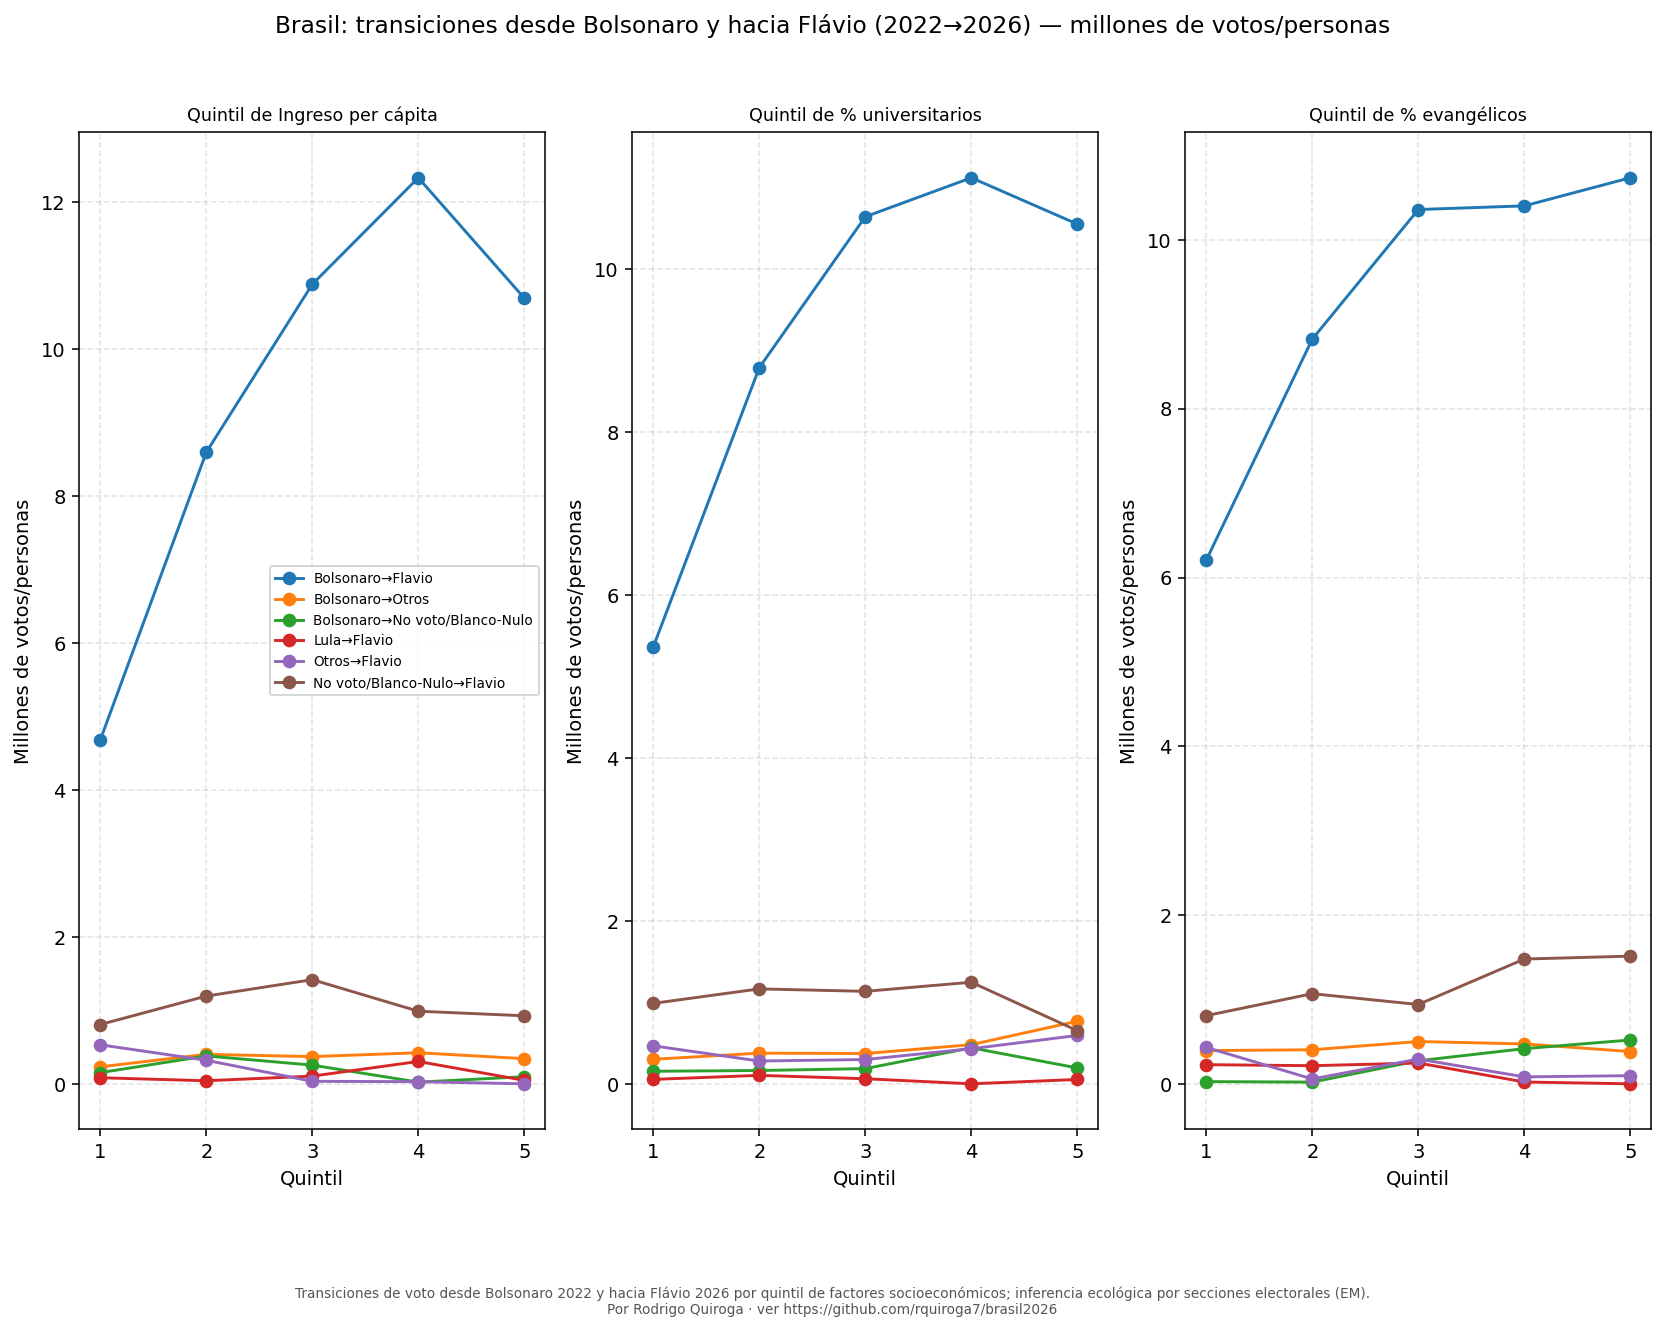
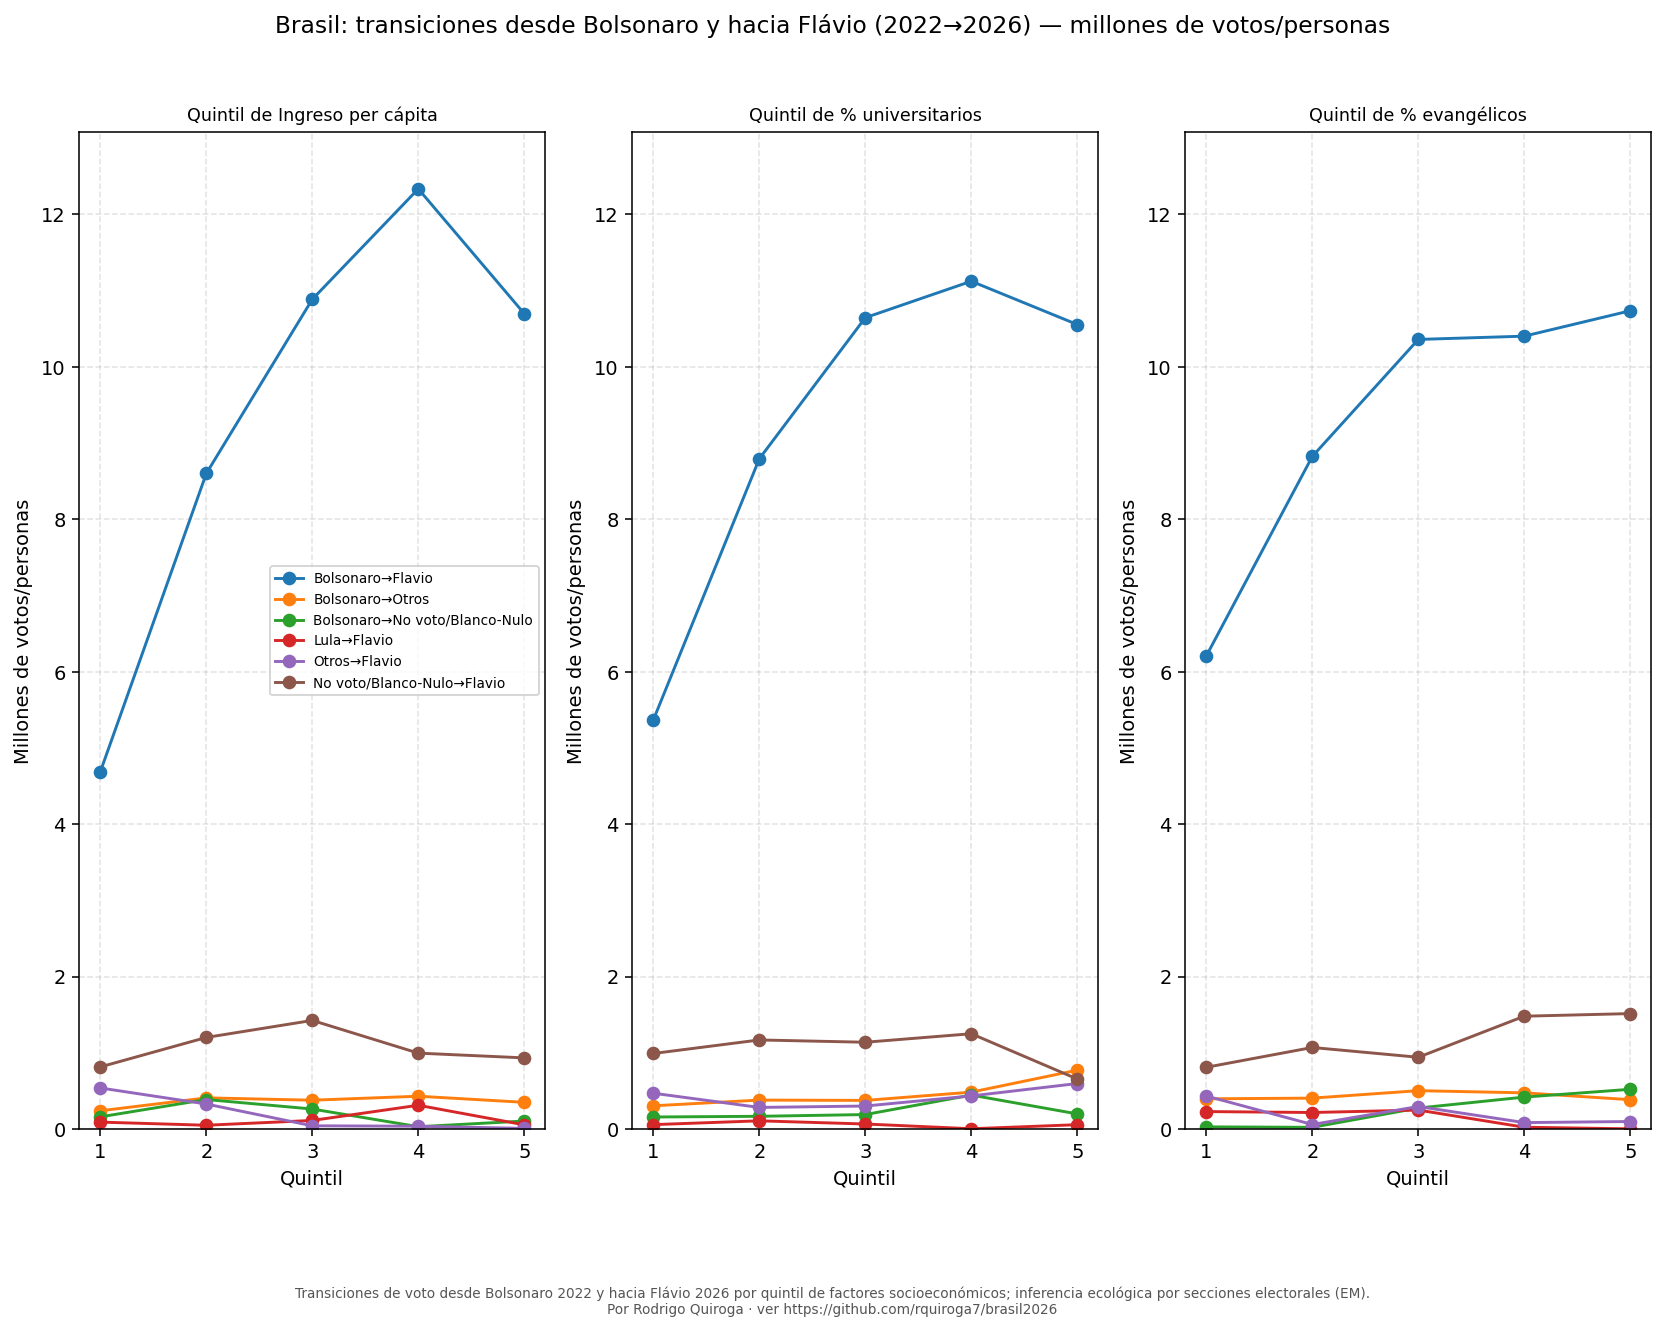
Socio: mismo eje y en las 3 facetas; modo --solo-graficos (regenera sin re-correr la inferencia)

diff --git a/inferencia_ecologica_socio.py b/inferencia_ecologica_socio.py
@@ -225,6 +225,7 @@ def graficar_panel(muni, corr, reg_sin, reg_con):
 def graficar_grupo(quints, claves, archivo, titulo, meto, absoluto=False):
     q = quints
     fig, axes = plt.subplots(1, 3, figsize=(12, 9))
+    ymin, ymax = np.inf, -np.inf
     for ax, var in zip(axes, ["ingreso", "univ", "religion"]):
         sub = q[q["factor"] == var]
         for oj, dk in claves:
@@ -233,10 +234,15 @@ def graficar_grupo(quints, claves, archivo, titulo, meto, absoluto=False):
                 continue
             y = s["votos"] / 1e6 if absoluto else s["p"] * 100
             ax.plot(s["quintil"] + 1, y, "o-", label=f"{oj}→{dk}")
+            ymin = min(ymin, float(y.min()))
+            ymax = max(ymax, float(y.max()))
         ax.set_title(f"Quintil de {NOMBRES[var]}", fontsize=9)
         ax.set_xlabel("Quintil")
         ax.set_ylabel("Millones de votos/personas" if absoluto else "% del bloque de origen")
         ax.grid(alpha=0.35, ls="--")
+    margen = 0.06 * (ymax - ymin) if ymax > ymin else 1.0
+    for ax in axes:                       # mismo eje y en las tres facetas
+        ax.set_ylim(max(0.0, ymin - margen), ymax + margen)
     suf = " — millones de votos/personas" if absoluto else ""
     fig.suptitle(f"Brasil: {titulo} (2022→2026){suf}", fontsize=12)
     axes[0].legend(fontsize=7)
@@ -320,7 +326,44 @@ def reporte(muni, corr, reg_con, r2_con, n_con, quints, idioma):
     return "\n".join(lineas) + f"\n\n---\n\n*{ep.CREDITO}*\n"
 
 
+def graficar_todo(muni, corr, reg_con, r2_con, n_con, quints):
+    """Genera todos los gráficos e informes a partir de los datos intermedios."""
+    graficar_panel(muni, corr, None, reg_con)
+    METO_LULA = ("Transiciones de voto hacia/desde Lula (2022→2026) por quintil de factores "
+                 "socioeconómicos; inferencia ecológica por secciones electorales (EM).")
+    METO_BOLSO = ("Transiciones de voto desde Bolsonaro 2022 y hacia Flávio 2026 por quintil de "
+                  "factores socioeconómicos; inferencia ecológica por secciones electorales (EM).")
+    graficar_grupo(quints, CLAVES_LULA, "socio_ei_lula.png",
+                   "transiciones hacia/desde Lula", METO_LULA)
+    graficar_grupo(quints, CLAVES_LULA, "socio_ei_abs_lula.png",
+                   "transiciones hacia/desde Lula", METO_LULA, absoluto=True)
+    graficar_grupo(quints, CLAVES_BOLSO, "socio_ei_bolso_flavio.png",
+                   "transiciones desde Bolsonaro y hacia Flávio", METO_BOLSO)
+    graficar_grupo(quints, CLAVES_BOLSO, "socio_ei_abs_bolso_flavio.png",
+                   "transiciones desde Bolsonaro y hacia Flávio", METO_BOLSO, absoluto=True)
+    open(os.path.join(OUT, "informe_socio_es.md"), "w", encoding="utf-8").write(
+        reporte(muni, corr, reg_con, r2_con, n_con, quints, "es"))
+    open(os.path.join(OUT, "relatorio_socio_pt.md"), "w", encoding="utf-8").write(
+        reporte(muni, corr, reg_con, r2_con, n_con, quints, "pt"))
+
+
+def solo_graficos():
+    """Regenera gráficos e informes desde los datos intermedios guardados (sin EM)."""
+    muni = pd.read_csv(os.path.join(OUT, "socio_municipios.csv"))
+    quints = pd.read_csv(os.path.join(OUT, "socio_ei_quintiles.csv"))
+    reg = pd.read_csv(os.path.join(OUT, "socio_regresion.csv"))
+    r2_con = float(reg["r2"].iloc[0]) if "r2" in reg.columns else float("nan")
+    n_con = int(reg["n"].iloc[0]) if "n" in reg.columns else len(muni)
+    reg_con = reg[["factor", "coef", "se", "t"]].copy()
+    corr = correlaciones(muni, "swing_lula")
+    graficar_todo(muni, corr, reg_con, r2_con, n_con, quints)
+    print("[OK] Gráficos regenerados desde datos guardados")
+
+
 def main():
+    if "--solo-graficos" in sys.argv:
+        solo_graficos()
+        return
     print("[*] Datos socioeconómicos + votos por municipio...")
     muni = dataset_municipal()
     cobertura = muni["ingreso"].notna().mean() * 100
@@ -349,23 +392,7 @@ def main():
     quints = pd.concat(partes, ignore_index=True)
     quints.to_csv(os.path.join(OUT, "socio_ei_quintiles.csv"), index=False)
 
-    graficar_panel(muni, corr, reg_sin, reg_con)
-    METO_LULA = ("Transiciones de voto hacia/desde Lula (2022→2026) por quintil de factores "
-                 "socioeconómicos; inferencia ecológica por secciones electorales (EM).")
-    METO_BOLSO = ("Transiciones de voto desde Bolsonaro 2022 y hacia Flávio 2026 por quintil de "
-                  "factores socioeconómicos; inferencia ecológica por secciones electorales (EM).")
-    graficar_grupo(quints, CLAVES_LULA, "socio_ei_lula.png",
-                   "transiciones hacia/desde Lula", METO_LULA)
-    graficar_grupo(quints, CLAVES_LULA, "socio_ei_abs_lula.png",
-                   "transiciones hacia/desde Lula", METO_LULA, absoluto=True)
-    graficar_grupo(quints, CLAVES_BOLSO, "socio_ei_bolso_flavio.png",
-                   "transiciones desde Bolsonaro y hacia Flávio", METO_BOLSO)
-    graficar_grupo(quints, CLAVES_BOLSO, "socio_ei_abs_bolso_flavio.png",
-                   "transiciones desde Bolsonaro y hacia Flávio", METO_BOLSO, absoluto=True)
-    open(os.path.join(OUT, "informe_socio_es.md"), "w", encoding="utf-8").write(
-        reporte(muni, corr, reg_con, r2_con, n_con, quints, "es"))
-    open(os.path.join(OUT, "relatorio_socio_pt.md"), "w", encoding="utf-8").write(
-        reporte(muni, corr, reg_con, r2_con, n_con, quints, "pt"))
+    graficar_todo(muni, corr, reg_con, r2_con, n_con, quints)
     print(f"[OK] Salidas en {OUT}")
 
 
